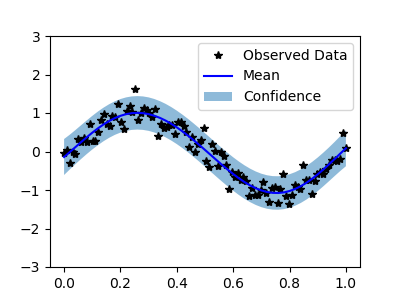
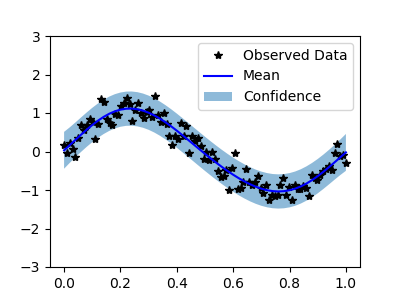
GPyTorch Tutorials Results

Changed region(s): [[0.15, 0.27, 0.9, 0.72]]

diff --git a/SpectralMixtureGPModel.py b/SpectralMixtureGPModel.py
@@ -8,6 +8,8 @@ GPyTorch Tutorial :: SpectralMixtureGPModel
 https://gpytorch.readthedocs.io/en/latest/examples/01_Exact_GPs/Spectral_Mixture_GP_Regression.html
 """
 
+torch.cuda.manual_seed(1)
+torch.manual_seed(1)
 
 class SpectralMixtureGPModel(gpytorch.models.ExactGP):
     def __init__(self, train_x, train_y, likelihood):
@@ -16,7 +18,7 @@ class SpectralMixtureGPModel(gpytorch.models.ExactGP):
         self.covar_module = gpytorch.kernels.SpectralMixtureKernel(num_mixtures=4)
         self.covar_module.initialize_from_data(train_x, train_y)
 
-    def forward(self,x):
+    def forward(self, x):
         mean_x = self.mean_module(x)
         covar_x = self.covar_module(x)
         return gpytorch.distributions.MultivariateNormal(mean_x, covar_x)
@@ -75,7 +77,7 @@ def main():
         ax.set_ylim([-3, 3])
         ax.legend(['Observed Data', 'Mean', 'Confidence'])
 
-        plt.savefig("results/SpectralMixtureGPModel")
+        plt.savefig("results/SpectralMixtureGPModel2.png")
 
 
 if __name__ == '__main__':
